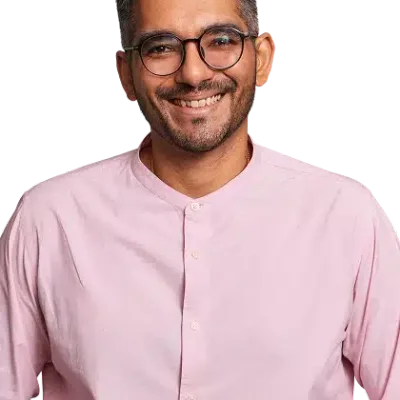
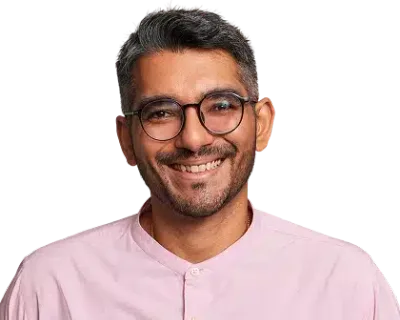
Fix team photo crop to keep face in frame

diff --git a/about.html b/about.html
@@ -100,7 +100,7 @@
     <h2 style="text-align:center;font-family:'Sora',sans-serif;font-weight:800;font-size:32px;color:#0E1B30;margin:0 0 44px">The People Behind Your Growth</h2>
     <div style="display:grid;grid-template-columns:repeat(5,1fr);gap:22px" class="g-5col">
       <div style="text-align:center">
-          <img src="images/team/Dhawal.webp" alt="Dhawal, Co-Founder and Managing Director at 2Stallions digital marketing agency" width="400" height="400" loading="lazy" decoding="async" style="width:100%;height:180px;border-radius:14px;object-fit:cover;display:block" />
+          <img src="images/team/Dhawal.webp" alt="Dhawal, Co-Founder and Managing Director at 2Stallions digital marketing agency" width="400" height="320" loading="lazy" decoding="async" style="width:100%;height:180px;border-radius:14px;object-fit:cover;object-position:top;display:block" />
           <div style="font-family:'Sora',sans-serif;font-weight:700;font-size:15px;color:#0E1B30;margin-top:14px">Dhawal</div>
           <div style="font-size:12.5px;color:#777;margin-top:2px">Co-Founder &amp; Managing Director</div>
         </div>